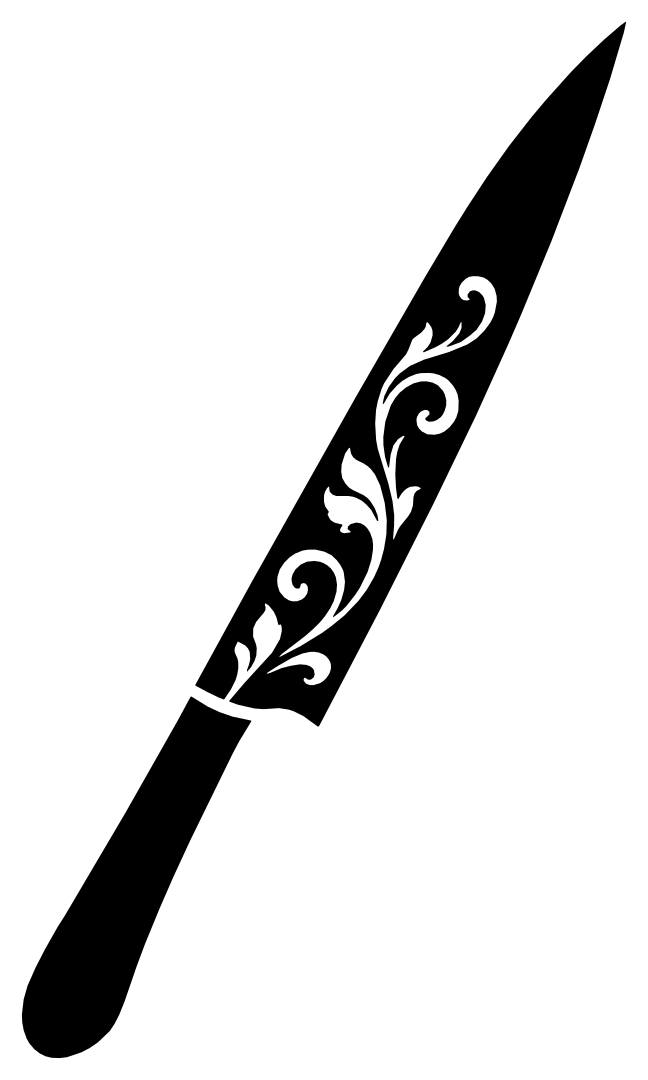
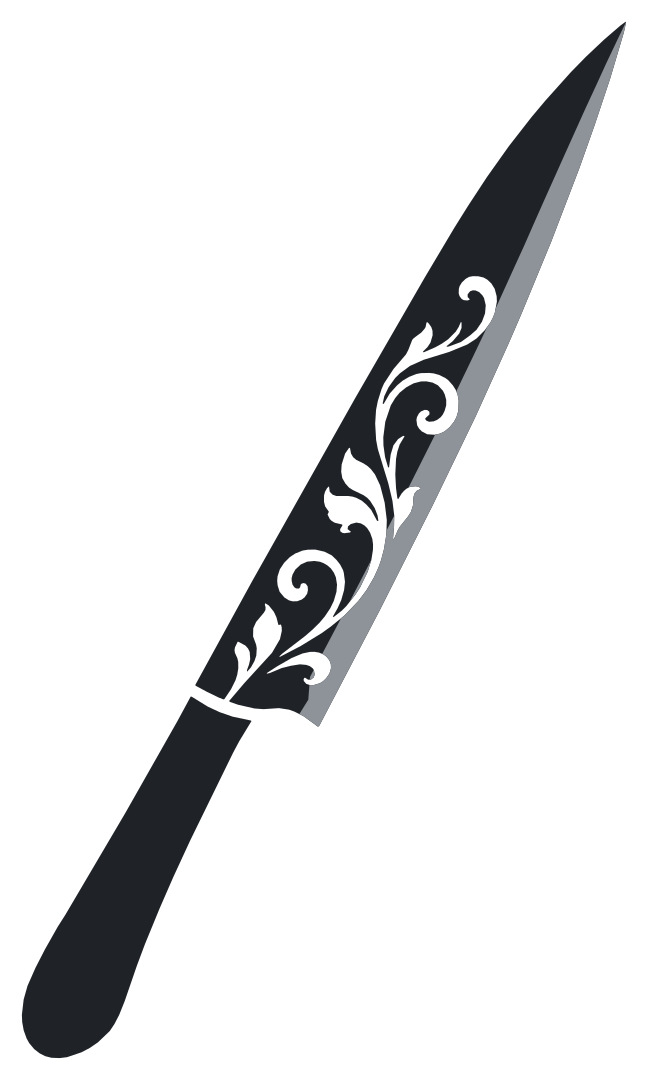
docs: apply approved vorpal bevel; verify exact 54 by 90 renders

Changed region(s): [[0.0309, 0.0306, 0.9568, 0.9778]]

diff --git a/docs/assets/brand/README.md b/docs/assets/brand/README.md
@@ -1,31 +1,34 @@
 # Vorpal blade
 
-Converted to native SVG on 2026-09-09 from the original artwork at `9dd873d`.
-The blade silhouette, rounded hilt, flowers, stems, and curling flourishes are
-preserved. This is a contour conversion of that artwork, with the same
-proportions and orientation.
+The polished bevel treatment was selected on 2026-09-10 and is used by the
+README. It preserves the original blade silhouette, rounded hilt, flowers,
+stems, and curling flourishes. A narrow internal bevel adds depth along the
+cutting edge, while the hilt keeps its solid treatment.
 
 ## Files and construction
 
-- `vorpal-blade.svg` is the editable monochrome vector master.
-- `vorpal-blade-light.svg` and `vorpal-blade-dark.svg` use identical contours in
-  `#1f2328` and `#f0f6fc`. The README displays these vectors directly.
+- `vorpal-blade.svg` is the editable vector master in the light-theme colors.
+- `vorpal-blade-light.svg` and `vorpal-blade-dark.svg` use identical contours.
+  Their body colors are `#1f2328` and `#f0f6fc`; their bevel colors are `#8e9399`
+  and `#7c8794`. The README displays these vectors directly.
 - `vorpal-blade-transparent.png` is a 648 × 1080 export of the vector master.
 - `vorpal-blade-preview.png` shows both themes enlarged and at the existing
   54 × 90 README size, with the heading and tagline beneath the blade.
-- `vorpal-blade-comparison.png` places the original raster rendering beside the
-  vector conversion, in both themes and at both sizes. It was visually checked
-  on 2026-09-09, including the hilt and every floral opening.
+- `vorpal-blade-comparison.png` records the original raster-to-vector conversion
+  checked on 2026-09-09, before the bevel was applied.
 
-The trace follows the original PNG's alpha boundary at 127.5 out of 255. All
-five closed contours are retained. Contour simplification uses a 0.4-source-pixel
-tolerance, about 0.03 pixels at README size. The path contains 496 vertices;
-the even-odd fill rule preserves the transparent floral openings and the gap
-between blade and hilt.
+The original artwork was converted to vectors on 2026-09-09. Its trace follows
+the original PNG's alpha boundary at 127.5 out of 255. All five closed contours
+are retained. Contour simplification uses a 0.4-source-pixel tolerance, about
+0.03 pixels at README size. The base artwork contains 496 vertices; the
+even-odd fill rule preserves the transparent floral openings and the gap
+between blade and hilt. The bevel is clipped to that same artwork, so its
+flowers and flourishes remain open.
 
 The original `293 36 712 1187` viewBox and the README's 54 × 90 dimensions are
-unchanged. The vector artwork uses solid theme ink with transparent cutouts.
-There are no embedded bitmaps, filters, fonts, scripts, or external resources.
+unchanged. There are no embedded bitmaps, filters, fonts, scripts, or external
+resources. On 2026-09-10, both theme SVGs rendered identically to the selected
+example at 54 × 90 with `rsvg-convert`; the README preview was visually checked.
 
 Reproduce the transparent export from the repository root with:
 
@@ -42,11 +45,10 @@ blade opens the preview; all paths are relative to the repository.
 
 The unmodified original PNG is retained at
 `9dd873d:docs/assets/brand/vorpal-blade-transparent.png` in git history.
-
 The previous theme SVGs embedded that PNG and recolored its alpha channel with
-a filter. The new SVGs express the same design as native contours.
+a filter. The current SVGs express the same design as native contours.
 
 ## Treatment examples
 
-[Two surface-treatment previews](vorpal-examples.md) retain the original blade,
-hilt, flowers, and flourishes. They are separate from the current README artwork.
+[The two treatment examples](vorpal-examples.md) record the options considered.
+A, the polished bevel, is now used by the README. B remains an unused preview.

diff --git a/docs/assets/brand/vorpal-examples.md b/docs/assets/brand/vorpal-examples.md
@@ -2,8 +2,9 @@
 
 Prepared 2026-09-09. These are two surface treatments of the existing vector
 artwork. Both reuse its exact blade and hilt contours, flowers, stems, and
-flourishes. Both keep the 54 × 90 dimensions and original viewBox. The examples
-have not been applied to the main logo or root README.
+flourishes. Both keep the 54 × 90 dimensions and original viewBox. A, the polished
+bevel, was selected on 2026-09-10 and is now used by the main logo and README.
+B remains an unused preview.
 
 ## A — Polished bevel
 
